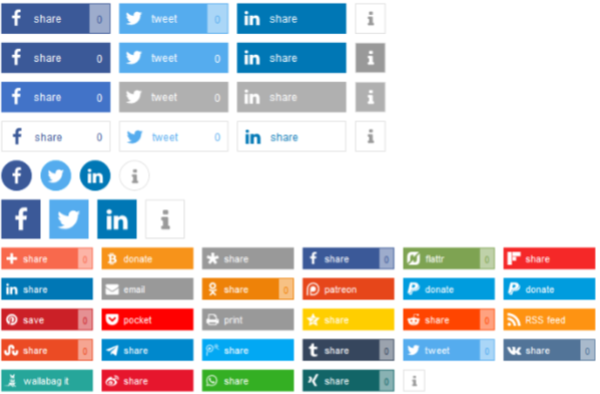
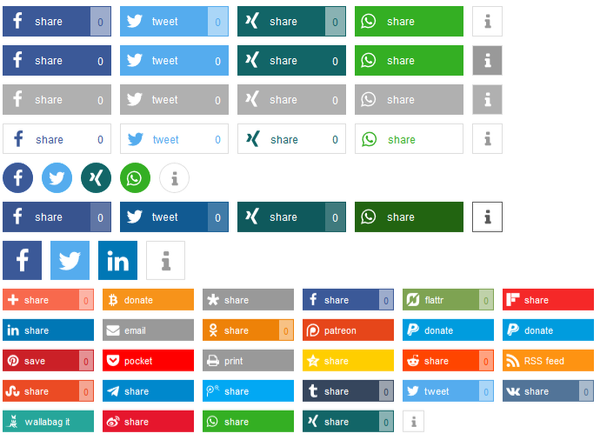
Release 4.6.0
Nachtrag 2

diff --git a/shariff/services/shariff-xing.php b/shariff/services/shariff-xing.php
@@ -75,7 +75,7 @@ if ( isset( $frontend ) && 1 === $frontend ) {
 	);
 
 	// Fetch counts.
-	$xing      = sanitize_text_field( wp_remote_retrieve_body( wp_remote_post( 'https://www.xing-share.com/spi/shares/statistics', $xing_post_options ) ) );
+	$xing      = sanitize_text_field( wp_remote_retrieve_body( wp_remote_post( 'https://www.xing.com/spi/shares/statistics', $xing_post_options ) ) );
 	$xing_json = json_decode( $xing, true );
 
 	// Store results, if we have some and record errors, if enabled (e.g. request from the status tab).
